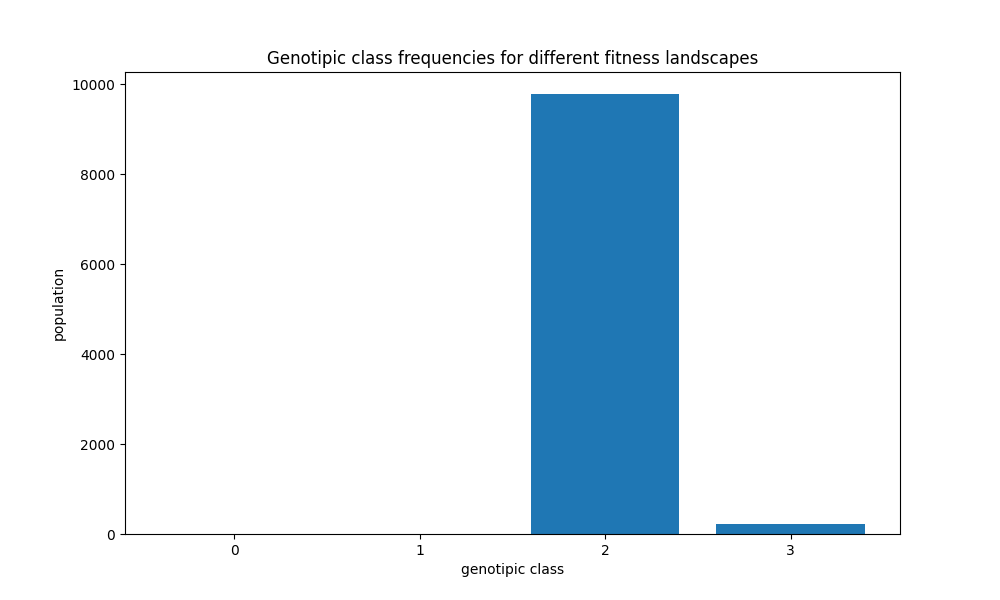
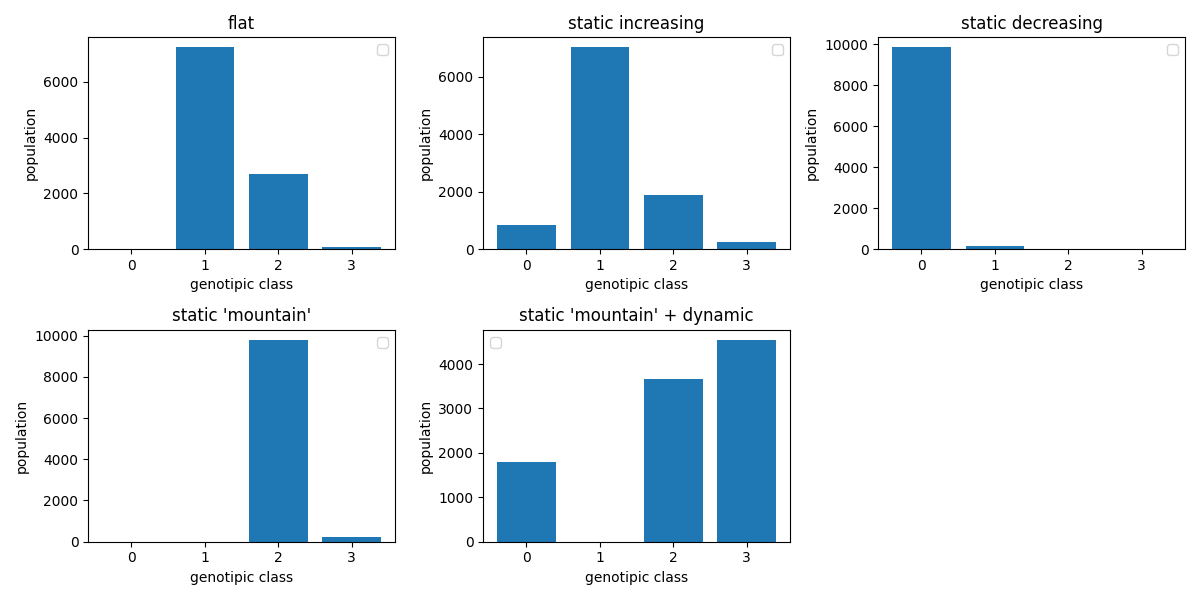
added analysis

diff --git a/fitness_comparison/analysis.py b/fitness_comparison/analysis.py
@@ -27,7 +27,7 @@ plt.savefig("simul_time.png")
 data = df[["flat_state", "static_inc_state", "static_dec_state", "static_mount_state", "dynamic_state"]]
 
 # Create a boxplot to compare the four quantities
-plt.figure(figsize=(10, 6))  # Optional: Set the figure size
+plt.figure(figsize=(12, 6))  # Optional: Set the figure size
 
 # Choose the row you want to plot (e.g., row 0)
 row_index = 7   # "cherrypicked"
@@ -36,26 +36,34 @@ row_index = 7   # "cherrypicked"
 selected_row = data.iloc[row_index]
 
 # defining class labels
+fitness_names = ["flat_state", "static_inc_state", "static_dec_state", "static_mount_state", "dynamic_state"]
 fitness_labels = ["flat", "static increasing", "static decreasing", "static 'mountain'", "static 'mountain' + dynamic"]
 
 # Create an array of class labels
 classes = np.arange(4)
 
-freq = selected_row["static_mount_state"].strip('[]')
-freq = freq.split()
+for i in range(len(fitness_labels)):
 
-# Convert the values to a list of floats
-numeric_freq = [float(val) for val in freq][:4]
+    freq = selected_row[fitness_names[i]].strip('[]')
+    freq = freq.split()
 
-freq_dict = dict(zip(classes, numeric_freq))
+    # Convert the values to a list of floats
+    numeric_freq = [float(val) for val in freq][:4]
 
-# Create a bar chart
-plt.bar(classes, numeric_freq, tick_label=classes.tolist())
+    freq_dict = dict(zip(classes, numeric_freq))
 
-# Customize the plot (optional)
-plt.xlabel('genotipic class')
-plt.ylabel('population')
-plt.title('Genotipic class frequencies for different fitness landscapes')
+    plt.subplot(2, 3, i+1)
+
+    # Create a bar chart
+    plt.bar(classes, numeric_freq, tick_label=classes.tolist())
+
+    # Customize the plot (optional)
+    plt.xlabel('genotipic class')
+    plt.ylabel('population')
+    plt.title(fitness_labels[i])
+    plt.legend()
+
+plt.tight_layout()
 
 # Show the bar chart
 plt.savefig("genotipes.png")

diff --git a/spatial_model/analysis.py b/spatial_model/analysis.py
@@ -7,7 +7,7 @@ import numpy as np
 df = pd.read_csv('data_ngb.csv', comment='#', skip_blank_lines=True).dropna(axis=0).reset_index(drop=True)
 df = df.drop(columns=['simulation_time', 'elapsed_time', 'state_world'])
 data = df.values
-col = np.zeros(data.shape[0])
+colors = np.zeros(data.shape[0])
 
 # Define colors for classes 1 to 4 (light to dark)
 class_colors = ['#FFD700', '#FFA500', '#FF8C00', '#FF4500']  # Adjust colors as needed
@@ -22,4 +22,4 @@ for i in range(data.shape[0]):
     ]
 
     # Convert the average color to hexadecimal format
-    col[i] = "#{:02X}{:02X}{:02X}".format(*average_color)
+    colors[i] = "#{:02X}{:02X}{:02X}".format(*average_color)
